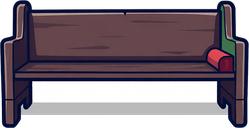
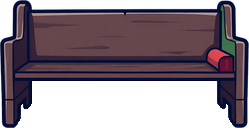
Gordeka : banc de la chapelle détouré entre les pieds (retour QA de Julien), masques manquants déposés en priorité haute par la veille
Claude-Session: https://claude.ai/code/session_01LXFHAN75rdxEcdsy5wKHqu

Changed region(s): [[0.0843, 0.625, 0.9277, 0.9062], [0.8996, 0.9375, 0.9277, 0.9688], [0.0562, 0.9375, 0.0843, 0.9688]]

diff --git a/tools/producer/masques_manquants.py b/tools/producer/masques_manquants.py
@@ -1,0 +1,89 @@
+#!/usr/bin/env python3
+"""Masques de gameplay manquants ou périmés : dépôt pf_2d__footprint en priorité haute (Julien 2026-10-21 :
+« pour les existants sans masque, fais générer le masque en haute prio » ; « ne mets pas d'objets hauts en
+QA sans avoir généré le masque »).
+
+  masques_manquants.py [--essai] [--sauf eid,eid]
+
+Un objet (type « objet » de assets/gordeka/decor/index.json) a besoin d'un masque s'il n'a pas de masks.json,
+ou si la taille notée dans masks.json n'est plus celle de son image (image refaite). Les masques déjà en file
+sont repassés en priorité haute ; les autres sont déposés (entrée masque du suivi de decor_matin, carte
+existante ou « m-<élément> »). Dépôt sans attente : si pixelforge est plein, on reprendra au passage suivant
+(la veille appelle ce script).
+"""
+import json
+import os
+import sys
+import urllib.request
+
+from PIL import Image
+
+HERE = os.path.dirname(os.path.abspath(__file__))
+ROOT = os.path.normpath(os.path.join(HERE, "..", ".."))
+sys.path.insert(0, HERE)
+import todo_decor as td  # noqa: E402
+
+DECOR = os.path.join(ROOT, "assets", "gordeka", "decor")
+ESSAI = "--essai" in sys.argv
+SAUF = set(sys.argv[sys.argv.index("--sauf") + 1].split(",")) if "--sauf" in sys.argv else set()
+
+
+def a_besoin(eid, el):
+    m = os.path.join(DECOR, "masques", eid, "masks.json")
+    if not os.path.exists(m):
+        return "aucun masque"
+    taille = json.load(open(m)).get("size")
+    img = Image.open(os.path.join(DECOR, el["fichiers"][0])).size
+    return f"masque périmé ({taille} ≠ {list(img)})" if taille and tuple(taille) != tuple(img) else None
+
+
+def haute(tid):
+    req = urllib.request.Request(f"{td.pf.PF}/v2/inferences/tasks/{tid}", data=json.dumps({"priority": "high"}).encode(),
+                                 method="PATCH", headers={"Content-Type": "application/json", **td.pf.AUTH})
+    urllib.request.urlopen(req, timeout=30).read()
+
+
+def main():
+    idx = json.load(open(os.path.join(DECOR, "index.json")))["elements"]
+    s = json.load(open(td.SUIVI))
+    td.deposer.__defaults__ = (1,)                   # pas d'attente : file pleine → passage suivant
+    for eid, el in idx.items():
+        if el.get("type") != "objet" or not el.get("fichiers") or eid in SAUF:
+            continue
+        pourquoi = a_besoin(eid, el)
+        if not pourquoi:
+            continue
+        ents = [(k, e) for k, e in s.items() if e.get("sorte") == "masque" and e.get("element") == eid]
+        en_file = [(k, e) for k, e in ents if e.get("statut") in ("en_file", "a_voir")]
+        if en_file:
+            k, e = en_file[0]
+            if e.get("statut") == "en_file" and e.get("priorite") != "high" and not ESSAI:
+                for j in e.get("jobs") or []:
+                    try:
+                        haute(j["tid"])
+                    except Exception as ex:  # noqa: BLE001
+                        print("  priorité non changée", j["tid"], str(ex)[:80])
+                e["priorite"] = "high"
+                json.dump(s, open(td.SUIVI, "w"), ensure_ascii=False, indent=1)
+            print(f"{eid} : {pourquoi}, déjà {e['statut']} (#{k}, haute)")
+            continue
+        k, e = ents[0] if ents else (f"m-{eid}", {"titre": f"{el.get('nom', eid)} : masque", "sorte": "masque",
+                                                  "element": eid})
+        if ESSAI:
+            print(f"{eid} : {pourquoi} → à déposer (#{k})")
+            continue
+        try:
+            n = td.depose_entree(k, e, "high")
+        except RuntimeError as ex:
+            print(f"{eid} : pixelforge plein, reprise au prochain passage ({str(ex)[:60]})")
+            return
+        e.pop("depend", None)
+        s[k] = e
+        json.dump(s, open(td.SUIVI, "w"), ensure_ascii=False, indent=1)
+        if k.isdigit():
+            td.prise(k, e)
+        print(f"{eid} : {pourquoi} → déposé #{k} ({n} job, haute)")
+
+
+if __name__ == "__main__":
+    main()
